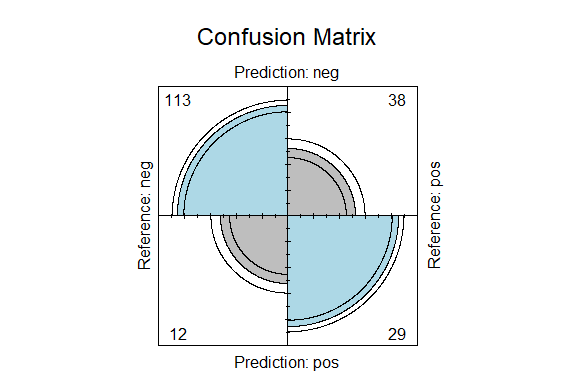
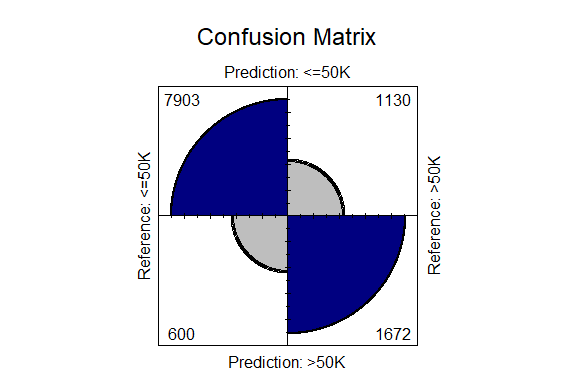
Updated Rmd - Accuracy and Cohens Kappa

diff --git a/markdown/Lab-Submission-Markdown.md b/markdown/Lab-Submission-Markdown.md
@@ -221,29 +221,45 @@ equal distribution of instances amongst the classes in the dataset.
 
 ## Load the Dataset
 
-We then proceeded to load the PimaIndians dataset
+We then proceeded to load the census dataset
 
 ``` r
-data(PimaIndiansDiabetes)
+library(readr)
+census <- read_csv("../data/census.csv")
+```
+
+    ## Rows: 45222 Columns: 14
+    ## ── Column specification ────────────────────────────────────────────────────────
+    ## Delimiter: ","
+    ## chr (9): workclass, education_level, marital_status, occupation, relationshi...
+    ## dbl (5): age, education-num, capital-gain, capital-loss, hours-per-week
+    ## 
+    ## ℹ Use `spec()` to retrieve the full column specification for this data.
+    ## ℹ Specify the column types or set `show_col_types = FALSE` to quiet this message.
+
+``` r
+View(census)
 ```
 
 ## Determine the Baseline Accuracy
 
 Identify the number of instances that belong to each class (distribution
-or class breakdown). When the code is run,it results in 65% tested
-negative and 34% tested positive for diabetes. We should work with the
-majority hence PimaIndiansDiabetes belongs to class negative.
+or class breakdown).The result should show that 75% earn below or equal
+to 50K and 24% earn above 50K for income.This means that an algorithm
+can achieve a 75% accuracy by predicting that all instances belong to
+the class “below or equal to 50k”.This in turn implies that the baseline
+accuracy is 75%.
 
 ``` r
-pima_indians_diabetes_freq <- PimaIndiansDiabetes$diabetes
+census_freq <- census$income
 cbind(frequency =
-        table(pima_indians_diabetes_freq),
-      percentage = prop.table(table(pima_indians_diabetes_freq)) * 100)
+        table(census_freq),
+      percentage = prop.table(table(census_freq)) * 100)
 ```
 
-    ##     frequency percentage
-    ## neg       500   65.10417
-    ## pos       268   34.89583
+    ##       frequency percentage
+    ## <=50K     34014    75.2156
+    ## >50K      11208    24.7844
 
 ## Split the dataset
 
@@ -255,11 +271,11 @@ be used for training the dataset and -train_index means the remaining
 portion that was not used will now be used for testing the dataset.
 
 ``` r
-train_index <- createDataPartition(PimaIndiansDiabetes$diabetes,
+train_index <- createDataPartition(census$income,
                                    p = 0.75,
                                    list = FALSE)
-pima_indians_diabetes_train <- PimaIndiansDiabetes[train_index, ]
-pima_indians_diabetes_test <- PimaIndiansDiabetes[-train_index, ]
+census_train <- census[train_index, ]
+census_test <- census[-train_index, ]
 ```
 
 ## Train the Model
@@ -277,13 +293,13 @@ train_control <- trainControl(method = "cv", number = 5)
 
 seed(7)will ensure we get the same “random” numbers. The method used is
 generalized linear model and the metric used is Accuracy. In the code
-below we are predicting Diabetes which is the dependent variable in line
-with the other independent variables.
+below we are predicting census data which is the dependent variable in
+line with the other independent variables.
 
 ``` r
 set.seed(7)
-diabetes_model_glm <-
-  train(diabetes ~ ., data = pima_indians_diabetes_train, method = "glm",
+income_model_glm <-
+  train(income ~ ., data = census_train, method = "glm",
         metric = "Accuracy", trControl = train_control)
 ```
 
@@ -298,22 +314,22 @@ Kappa of 50% .We notice the Accuracy is higher than the baseline
 accuracy.
 
 ``` r
-print(diabetes_model_glm)
+print(income_model_glm)
 ```
 
     ## Generalized Linear Model 
     ## 
-    ## 576 samples
-    ##   8 predictor
-    ##   2 classes: 'neg', 'pos' 
+    ## 33917 samples
+    ##    13 predictor
+    ##     2 classes: '<=50K', '>50K' 
     ## 
     ## No pre-processing
     ## Resampling: Cross-Validated (5 fold) 
-    ## Summary of sample sizes: 461, 461, 460, 461, 461 
+    ## Summary of sample sizes: 27134, 27134, 27133, 27134, 27133 
     ## Resampling results:
     ## 
     ##   Accuracy   Kappa    
-    ##   0.7743628  0.4861869
+    ##   0.8474217  0.5647964
 
 ### Compute the metric yourself using the test dataset
 
@@ -322,39 +338,39 @@ Confusion Matrix visualize the predicted values against the actual
 values.
 
 ``` r
-predictions <- predict(diabetes_model_glm, pima_indians_diabetes_test[, 1:8])
+predictions <- predict(income_model_glm, census_test[, 1:13])
 confusion_matrix <-
-  caret::confusionMatrix(predictions,
-                         pima_indians_diabetes_test[, 1:9]$diabetes)
+  caret::confusionMatrix(predictions,as.factor(
+                         census_test[, 1:14]$income))
 print(confusion_matrix)
 ```
 
     ## Confusion Matrix and Statistics
     ## 
     ##           Reference
-    ## Prediction neg pos
-    ##        neg 113  38
-    ##        pos  12  29
+    ## Prediction <=50K >50K
+    ##      <=50K  7903 1130
+    ##      >50K    600 1672
     ##                                           
-    ##                Accuracy : 0.7396          
-    ##                  95% CI : (0.6715, 0.8001)
-    ##     No Information Rate : 0.651           
-    ##     P-Value [Acc > NIR] : 0.005432        
+    ##                Accuracy : 0.847           
+    ##                  95% CI : (0.8402, 0.8536)
+    ##     No Information Rate : 0.7521          
+    ##     P-Value [Acc > NIR] : < 2.2e-16       
     ##                                           
-    ##                   Kappa : 0.3702          
+    ##                   Kappa : 0.5618          
     ##                                           
-    ##  Mcnemar's Test P-Value : 0.000407        
+    ##  Mcnemar's Test P-Value : < 2.2e-16       
     ##                                           
-    ##             Sensitivity : 0.9040          
-    ##             Specificity : 0.4328          
-    ##          Pos Pred Value : 0.7483          
-    ##          Neg Pred Value : 0.7073          
-    ##              Prevalence : 0.6510          
-    ##          Detection Rate : 0.5885          
-    ##    Detection Prevalence : 0.7865          
-    ##       Balanced Accuracy : 0.6684          
+    ##             Sensitivity : 0.9294          
+    ##             Specificity : 0.5967          
+    ##          Pos Pred Value : 0.8749          
+    ##          Neg Pred Value : 0.7359          
+    ##              Prevalence : 0.7521          
+    ##          Detection Rate : 0.6991          
+    ##    Detection Prevalence : 0.7990          
+    ##       Balanced Accuracy : 0.7631          
     ##                                           
-    ##        'Positive' Class : neg             
+    ##        'Positive' Class : <=50K           
     ## 
 
 ### Display a graphical confusion matrix
@@ -362,7 +378,7 @@ print(confusion_matrix)
 Here is where the confusion matrix is shown in light blue and grey.
 
 ``` r
-fourfoldplot(as.table(confusion_matrix), color = c("grey", "lightblue"),
+fourfoldplot(as.table(confusion_matrix), color = c("grey", "navyblue"),
              main = "Confusion Matrix")
 ```
 
